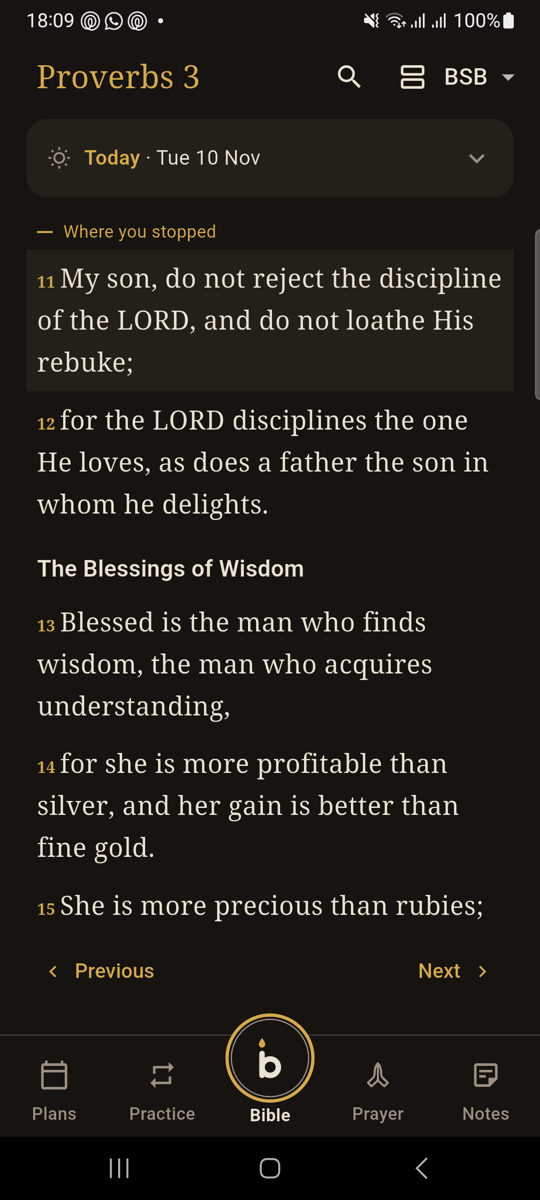
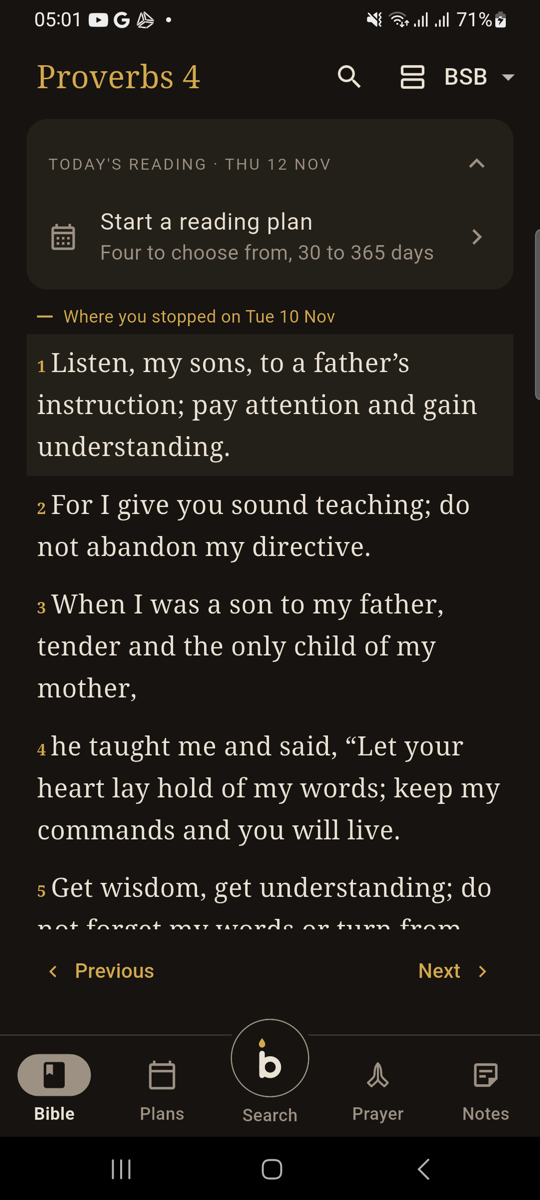
Site and screenshots: retaken on the A32 with Search in the middle; alt text matches
Claude-Session: https://claude.ai/code/session_01GfBLGKADBA1EfsnMvCEZqL

diff --git a/site/index.html b/site/index.html
@@ -109,7 +109,7 @@
         <p class="lead">Results come in groups, each in Bible order. Each group says how its verses were found: the exact words, other forms of the word, all your words, some of them, the Hebrew or Greek words behind your word, and the headings the BSB's publisher printed. A word also lists the Hebrew and Greek words behind it, and what the commentaries you have added say about it.</p>
       </div>
       <figure class="words-card glass" data-sc-in data-sc-stagger="70">
-        <img src="screenshots/app-search.png" alt="Searching jesus wept: one verse with the exact words, then three verses with all the words, each group saying how it was found" width="540" height="1200" loading="lazy">
+        <img src="screenshots/app-search.png" alt="Searching holy: the Hebrew and Greek words behind it, with how often each is used, above the verses and commentary, with a count on each tab" width="540" height="1200" loading="lazy">
       </figure>
     </div>
   </section>
@@ -148,9 +148,9 @@
           <h2 class="sc-display sc-display--md">The app</h2>
           <p class="body">It opens on the Bible. Plans for reading, Search in the middle, Prayer for what you are asking God, Notes for everything you keep.</p>
         </div>
-        <figure class="phone"><img src="screenshots/app-bible.png" alt="The Bible, five places along the bottom with the Bible raised in the middle" width="540" height="1200" decoding="async"><figcaption>It opens on the Bible</figcaption></figure>
-        <figure class="phone"><img src="screenshots/app-plans.png" alt="Plans: four reading plans to choose from" width="540" height="1200" decoding="async"><figcaption>Plans: four reading plans to choose from</figcaption></figure>
-        <figure class="phone"><img src="screenshots/app-search.png" alt="Search" width="540" height="1200" decoding="async"><figcaption>Search</figcaption></figure>
+        <figure class="phone"><img src="screenshots/app-bible.png" alt="The Bible, five places along the bottom with Search raised in the middle" width="540" height="1200" decoding="async"><figcaption>It opens on the Bible</figcaption></figure>
+        <figure class="phone"><img src="screenshots/app-plans.png" alt="Plans: reading plans and prayer plans to choose from" width="540" height="1200" decoding="async"><figcaption>Plans: reading plans and prayer plans to choose from</figcaption></figure>
+        <figure class="phone"><img src="screenshots/app-search.png" alt="Searching holy: word studies first, then verses and commentary" width="540" height="1200" decoding="async"><figcaption>Search finds words, verses and commentary</figcaption></figure>
         <p class="rail-end">All of it on the device, none of it on a server.</p>
       </div>
     </div>
